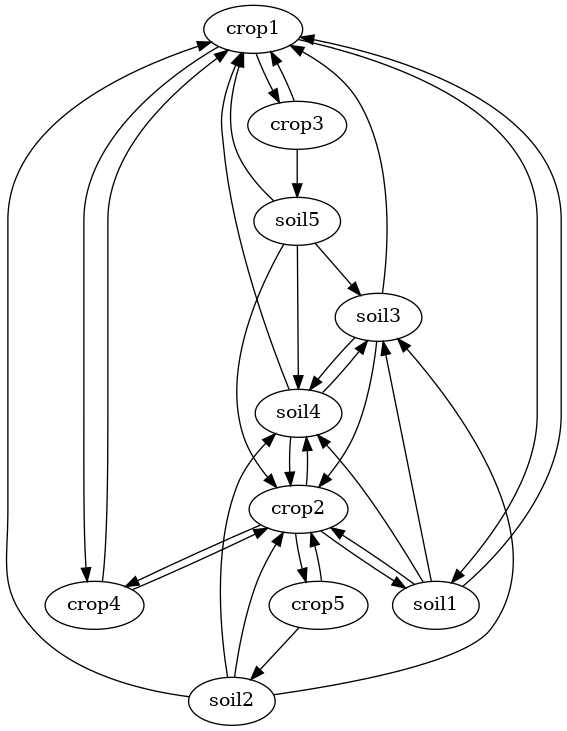
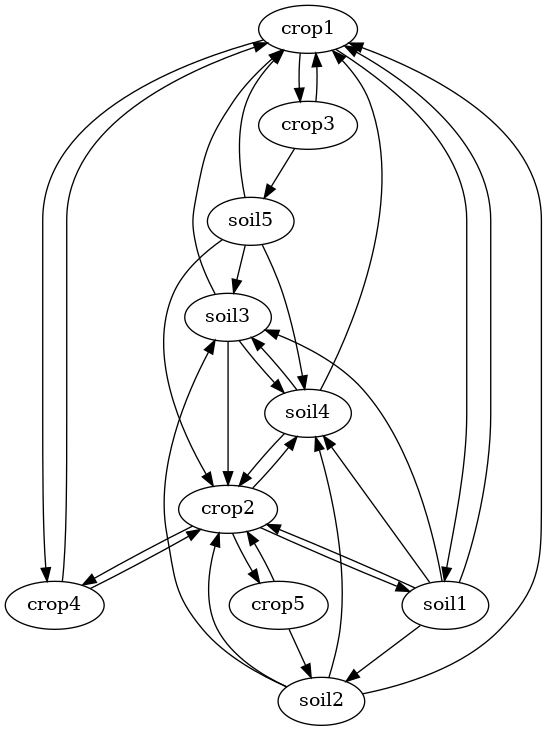
updated readme & network graph

diff --git a/UDPNode1.py b/UDPNode1.py
@@ -76,6 +76,7 @@ def handle_packet(router, packet, socket, interface):
     # print("HANDLING PACKET")
     packet = json.loads(packet.decode())
     if not "type" in packet: return # possibly ignore message from other pi's not using this implementation
+    print(f"\nRECEIVED DATA & HANDLING PACKET")
     print(router)
     print(packet)
     #Interest packet
@@ -173,7 +174,6 @@ def inbound(socket,name,lock,router, interface):
         bytesAddressPair = socket.recvfrom(bufferSize)
         lock.acquire()
         message = bytesAddressPair[0]
-        print(f"\nRECEIVED DATA & HANDLING PACKET")
         handle_packet(router,message,socket, interface)
         lock.release()
 

diff --git a/README.md b/README.md
@@ -45,6 +45,19 @@ The network is divided into two types of devices - nodes and sensors.
 
 Nodes with two-level names can access data from every other sensor or node. If an attempt is made to get data from sensors away from its node network, it will fail to retrieve the data. However, nodes can retrieve data from all sensors in the entire network of networks.
 
+#### Network graph
+The network nodes are connected in the following manner:
+
+![Network Graph](https://github.com/Sahil3201/p2p-ndn/blob/minimal/network%20architecture/Network%20Graph.png)
+
+The Crops nodes have the following device sensors:
+
+<img src="https://github.com/Sahil3201/p2p-ndn/blob/minimal/network%20architecture/Crops%20Device%20Graph.png" alt="Crops Device Graph" style="width:1000px;"/>
+
+The Soils nodes have the following device sensors:
+
+<img src="https://github.com/Sahil3201/p2p-ndn/blob/minimal/network%20architecture/Soils%20Device%20Graph.png" alt="Soils Device Graph" style="width:1000px;"/>
+
 ### List of Data Names
 #### List of Names of Nodes
 "/crops/crop1",
